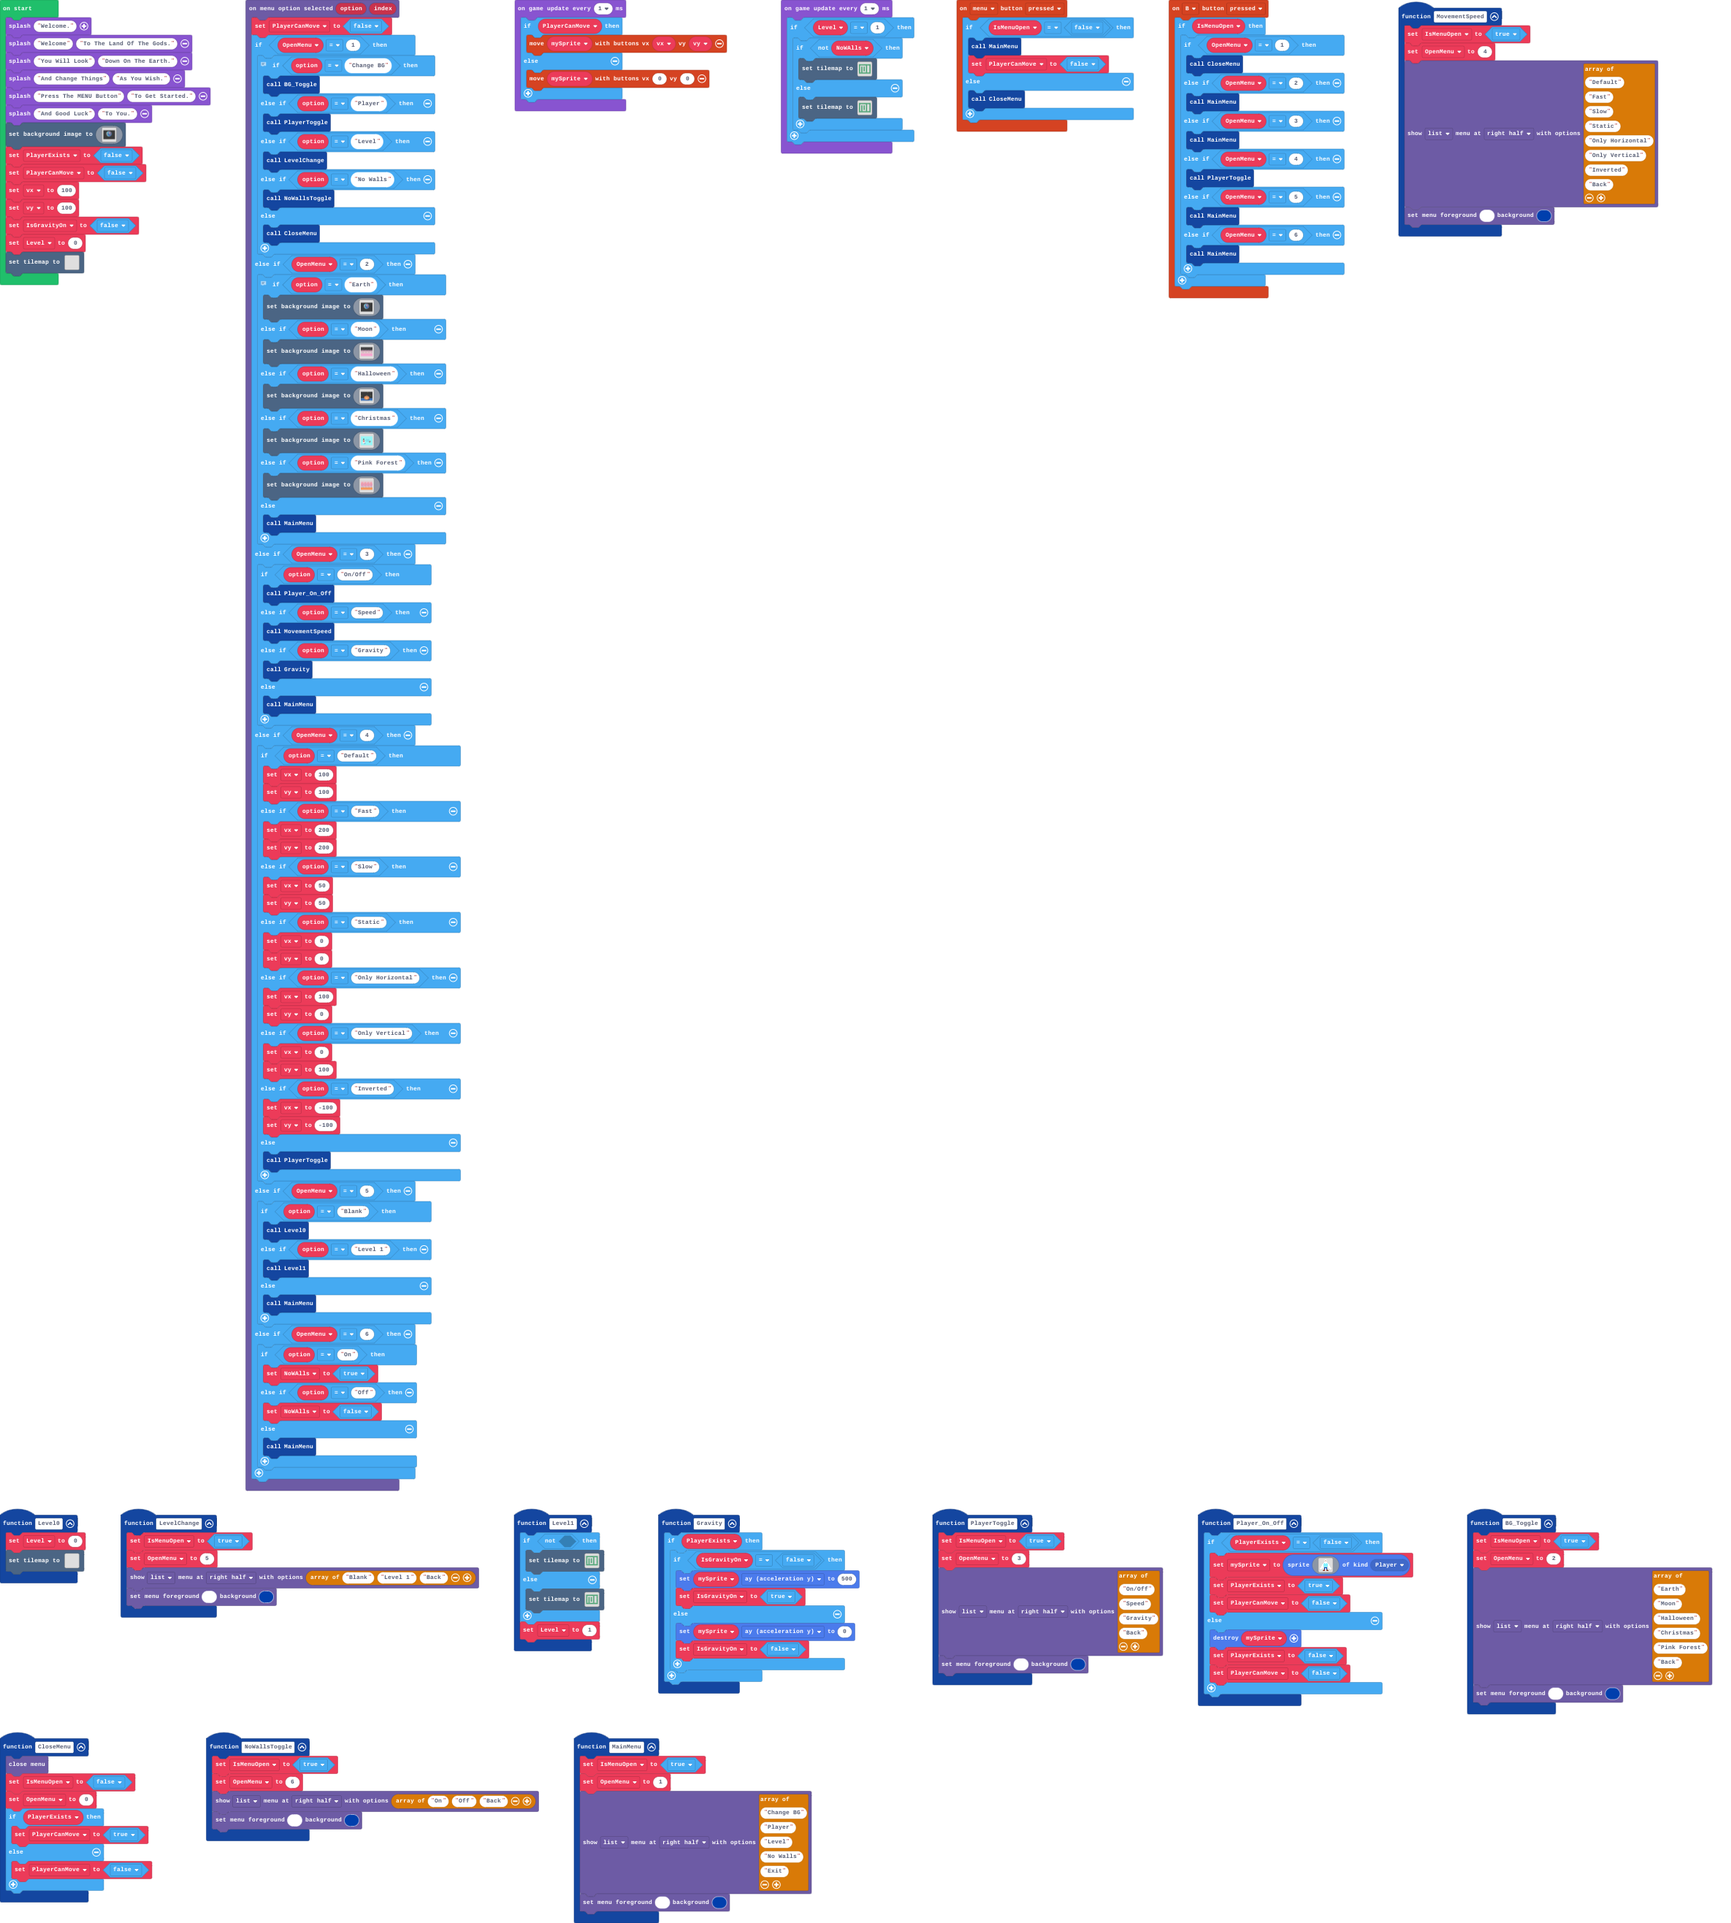
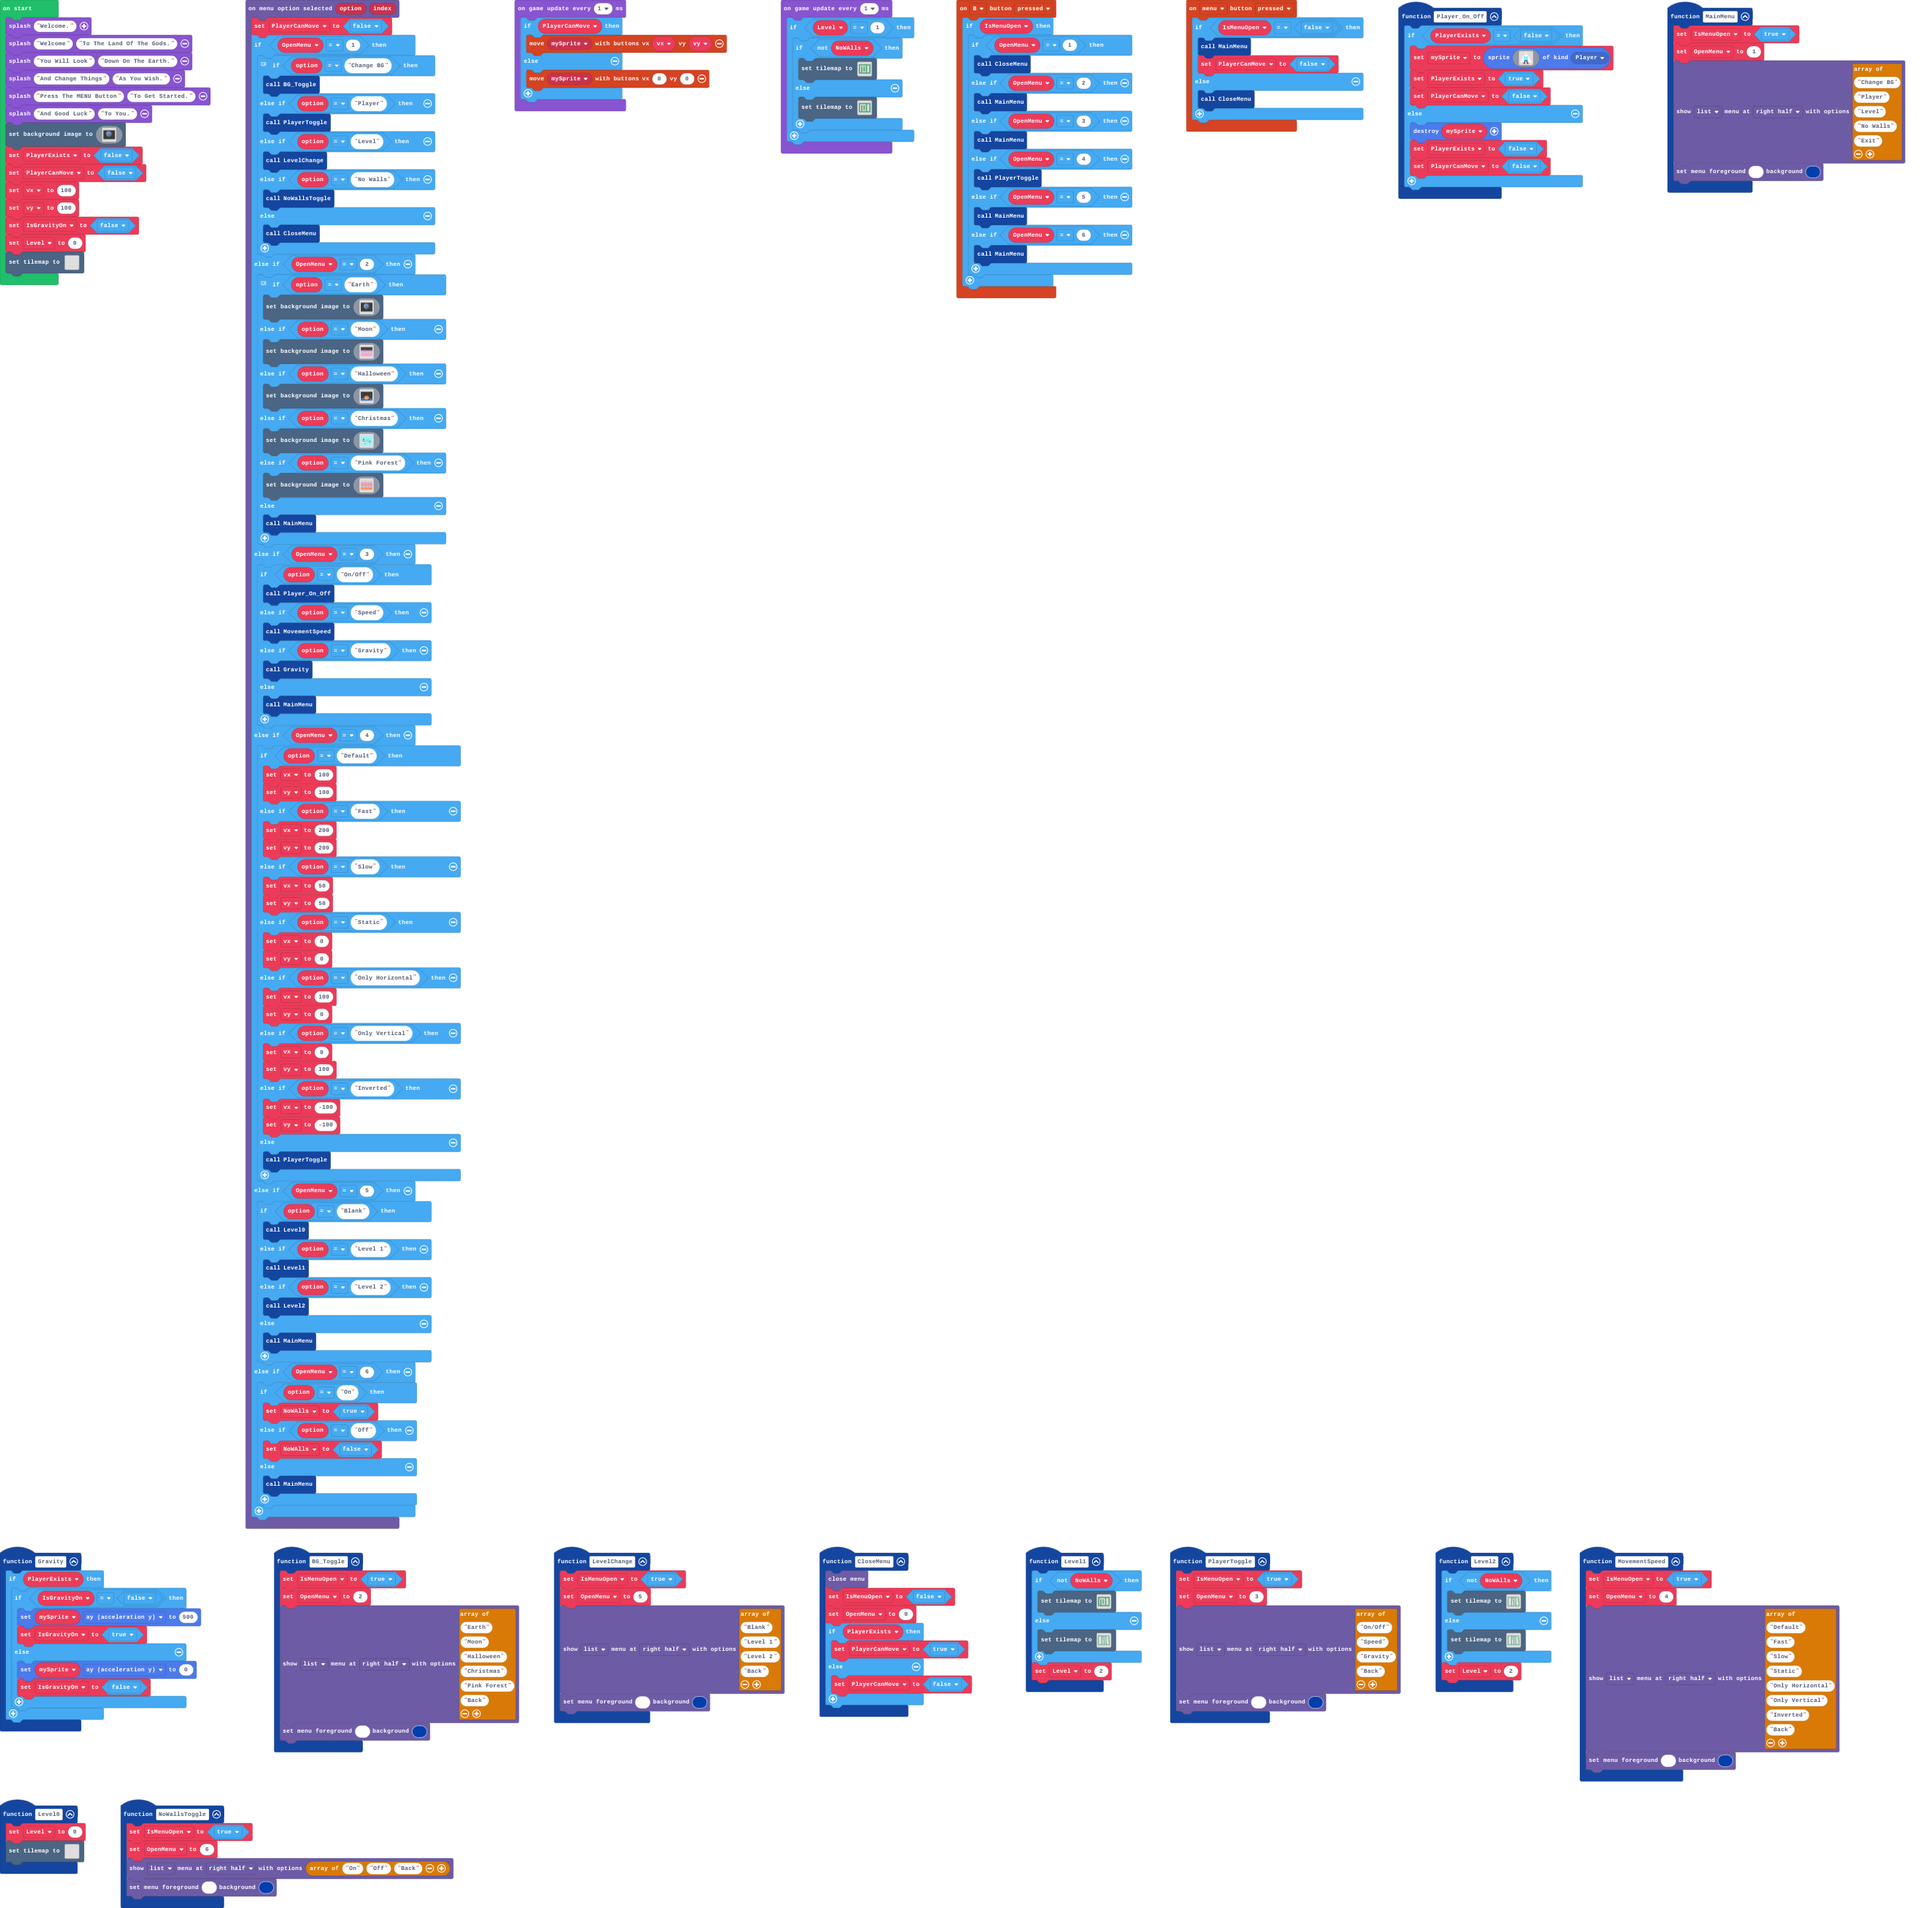
;lefskhaas

Changed region(s): [[0.0, 0.0, 0.9992, 1.0], [0.5308, 0.7753, 0.9992, 0.9613]]

diff --git a/tilemap.g.ts b/tilemap.g.ts
@@ -40,6 +40,82 @@ namespace myTiles {
 . . . . . . . . . . 
 . . . . . . . . . . 
 `, [myTiles.transparency16,myTiles.tile1], TileScale.Sixteen);
+            case "level2":
+            case "level2":return tiles.createTilemap(hex`1000100000000000000000000000000000000000000000000000000000000000000000000000000000000000000000000000000000000000000000000000000000000000000000000000000000000000000000000000000000000000000000000000000000000000000000000000000000000000000000000000000000000000000000000000000000000000000000000000000000000000000000000000000000000000000000000000000000000000000000000000000000000000000000000000000000000000000000000000000000000000000000000000000000000000000000000000000000000000000000000000000000000000000000000000000000000000`, img`
+. . . . . . . . . . . . . . . . 
+. . . . . . . . . . . . . . . . 
+. . . . . . . . . . . . . . . . 
+. . . . . . . . . . . . . . . . 
+. . . . . . . . . . . . . . . . 
+. . . . . . . . . . . . . . . . 
+. . . . . . . . . . . . . . . . 
+. . . . . . . . . . . . . . . . 
+. . . . . . . . . . . . . . . . 
+. . . . . . . . . . . . . . . . 
+. . . . . . . . . . . . . . . . 
+. . . . . . . . . . . . . . . . 
+. . . . . . . . . . . . . . . . 
+. . . . . . . . . . . . . . . . 
+. . . . . . . . . . . . . . . . 
+. . . . . . . . . . . . . . . . 
+`, [myTiles.transparency16], TileScale.Sixteen);
+            case "level4":
+            case "level4":return tiles.createTilemap(hex`1000100000000000000000000000000000000000000000000000000000000000000000000000000000000000000000000000000000000000000000000000000000000000000000000000000000000000000000000000000000000000000000000000000000000000000000000000000000000000000000000000000000000000000000000000000000000000000000000000000000000000000000000000000000000000000000000000000000000000000000000000000000000000000000000000000000000000000000000000000000000000000000000000000000000000000000000000000000000000000000000000000000000000000000000000000000000000`, img`
+. . . . . . . . . . . . . . . . 
+. . . . . . . . . . . . . . . . 
+. . . . . . . . . . . . . . . . 
+. . . . . . . . . . . . . . . . 
+. . . . . . . . . . . . . . . . 
+. . . . . . . . . . . . . . . . 
+. . . . . . . . . . . . . . . . 
+. . . . . . . . . . . . . . . . 
+. . . . . . . . . . . . . . . . 
+. . . . . . . . . . . . . . . . 
+. . . . . . . . . . . . . . . . 
+. . . . . . . . . . . . . . . . 
+. . . . . . . . . . . . . . . . 
+. . . . . . . . . . . . . . . . 
+. . . . . . . . . . . . . . . . 
+. . . . . . . . . . . . . . . . 
+`, [myTiles.transparency16], TileScale.Sixteen);
+            case "LEvel 2":
+            case "L3":return tiles.createTilemap(hex`140010000101010101010101010101010101010101010100010000000000010000000000000000000000010001000000000001010101010101010000000001000100000000000100000000000001000000000100010000000000010000000000000100000000010101000000000001000101010000010000000001000100000000000100000001000001000000000100010000000000010000000100000100000000010101000000000001000000010000010000000000010100000000000100000001000001000000000001010000000000010000000100000100000000000101000000000001000000010000010000000000010100000000000100000001000001010000000001010000000000010000000100000001000000000101000000000001000000010000000100000000010101010101010101010101010101010101010101`, img`
+2222222222222222222.
+2.....2...........2.
+2.....22222222....2.
+2.....2......2....2.
+2.....2......2....22
+2.....2.222..2....2.
+2.....2...2..2....2.
+2.....2...2..2....22
+2.....2...2..2.....2
+2.....2...2..2.....2
+2.....2...2..2.....2
+2.....2...2..2.....2
+2.....2...2..22....2
+2.....2...2...2....2
+2.....2...2...2....2
+22222222222222222222
+`, [myTiles.transparency16,sprites.builtin.forestTiles0], TileScale.Sixteen);
+            case "LEvel 2 NoClip":
+            case "LEvel 1":return tiles.createTilemap(hex`140010000101010101010101010101010101010101010100010000000000010000000000000000000000010001000000000001010101010101010000000001000100000000000100000000000001000000000100010000000000010000000000000100000000010101000000000001000101010000010000000001000100000000000100000001000001000000000100010000000000010000000100000100000000010101000000000001000000010000010000000000010100000000000100000001000001000000000001010000000000010000000100000100000000000101000000000001000000010000010000000000010100000000000100000001000001010000000001010000000000010000000100000001000000000101000000000001000000010000000100000000010101010101010101010101010101010101010101`, img`
+....................
+....................
+....................
+....................
+....................
+....................
+....................
+....................
+....................
+....................
+....................
+....................
+....................
+....................
+....................
+....................
+`, [myTiles.transparency16,sprites.builtin.forestTiles0], TileScale.Sixteen);
         }
         return null;
     })

diff --git a/main.ts b/main.ts
@@ -62,10 +62,23 @@ function BG_Toggle () {
     ], MenuStyle.List, MenuLocation.RightHalf)
     blockMenu.setColors(1, 8)
 }
+function Level2 () {
+    if (!(NoWAlls)) {
+        tiles.setTilemap(tilemap`LEvel 2`)
+    } else {
+        tiles.setTilemap(tilemap`LEvel 2 NoClip`)
+    }
+    Level = 2
+}
 function LevelChange () {
     IsMenuOpen = true
     OpenMenu = 5
-    blockMenu.showMenu(["Blank", "Level 1", "Back"], MenuStyle.List, MenuLocation.RightHalf)
+    blockMenu.showMenu([
+    "Blank",
+    "Level 1",
+    "Level 2",
+    "Back"
+    ], MenuStyle.List, MenuLocation.RightHalf)
     blockMenu.setColors(1, 8)
 }
 function CloseMenu () {
@@ -79,12 +92,12 @@ function CloseMenu () {
     }
 }
 function Level1 () {
-    if (!(false)) {
+    if (!(NoWAlls)) {
         tiles.setTilemap(tilemap`L1`)
     } else {
-        tiles.setTilemap(tilemap`L1 Noclip`)
+        tiles.setTilemap(tilemap`LEvel 2 NoClip`)
     }
-    Level = 1
+    Level = 2
 }
 function PlayerToggle () {
     IsMenuOpen = true
@@ -194,6 +207,8 @@ blockMenu.onMenuOptionSelected(function (option, index) {
             Level0()
         } else if (option == "Level 1") {
             Level1()
+        } else if (option == "Level 2") {
+            Level2()
         } else {
             MainMenu()
         }
